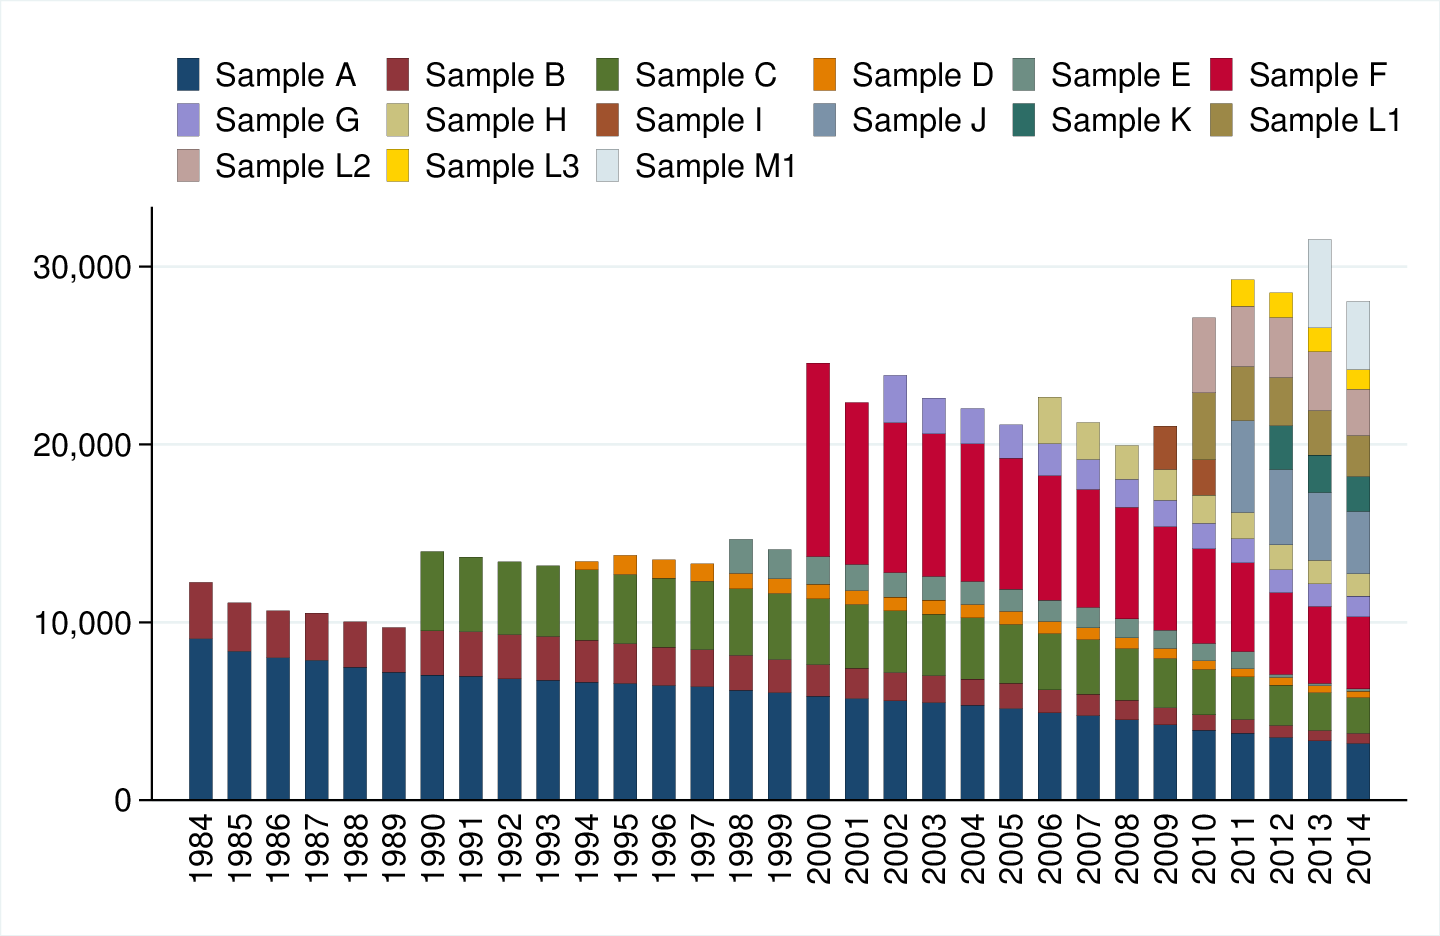
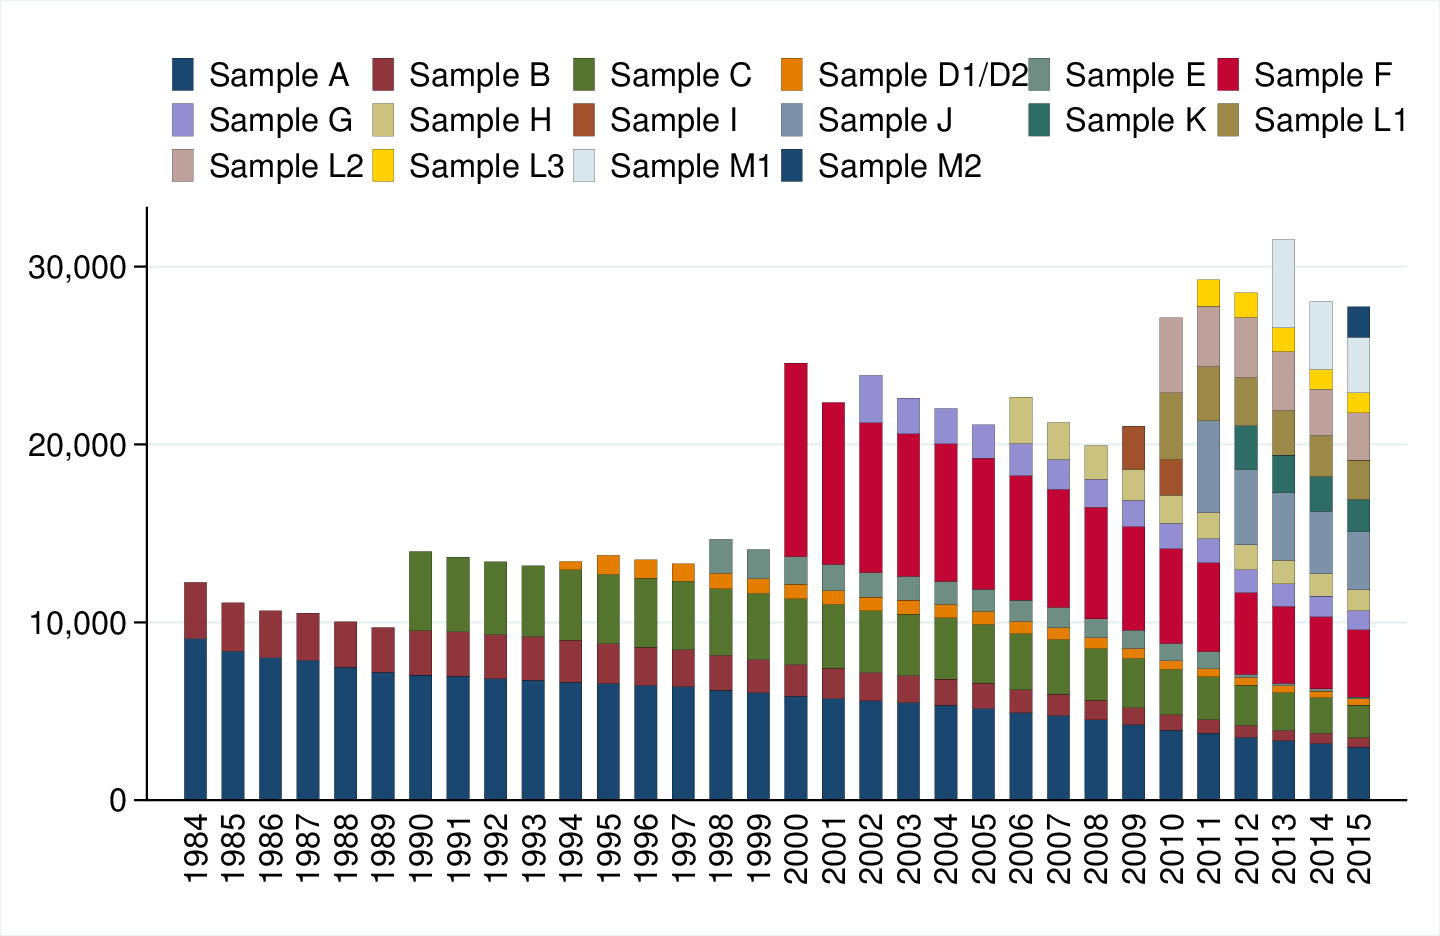
Update Grafiken und Tabellen auf V32

Changed region(s): [[0.0, 0.2169, 0.9688, 0.9605], [0.0938, 0.062, 0.9688, 0.2169], [0.0625, 0.8365, 0.0938, 0.8675]]

diff --git a/soep/dtc/hh.md b/soep/dtc/hh.md
@@ -7,15 +7,16 @@ layout: dtc
 ## Author: Jan Goebel                                           ##
 ##################################################################
 
-soep.version <- 31
+soep.version <- 32
 soep.waves <- c(letters, paste0("b", letters))[1:soep.version]
 sample.shortnames <- c("A (1984)" , "B (1984)", "C (1990)", "D (1994/95)",
                        "E (1998)*", "F (2000)", "G (2002)", "H (2006)",
                        "I (2009)*", "J (2011)", "K (2012)",
-                       "L1 (2010)", "L2 (2010)", "L3 (2011)", "M1 (2013)")
+                       "L1 (2010)", "L2 (2010)", "L3 (2011)",
+                       "M1 (2013)", "M2 (2015)")
 
 ## create long version of hpfad
-hpfad <- paste0("/home/jgoebel/data/soep-data/DATA/soep", soep.version, "_en/stata/hpfad.dta")
+hpfad <- paste0("/home/jgoebel/data/soep-data/DATA/soep", soep.version, "_de/stata/hpfad.dta")
 require(foreign)
 hpfad <- droplevels(read.dta(hpfad))
 hpfad <- hpfad[, c("hhnr", "hsample", paste0(soep.waves, "hhnr"), paste0(soep.waves, "hnetto"))]
@@ -44,16 +45,14 @@ for (i in seq(along.with = new.samples)) {
             hpfadl$hnetto %in% c("[1] Successful HH Interview", "[1] Realisiertes Haushaltsinterview"))
 
     old.new.hh[names(new.samples)[i], paste("new hh", 1983+soep.version)] <-
-        sum(tmp$syear   >   new.samples[i]    &
-            tmp$syear   <=  1983+soep.version &
-            tmp$hsample == names(new.samples)[i] &
-            !(tmp$cid == tmp$hid))    
+        sum(! tmp$hid[tmp$hsample == names(new.samples)[i] & tmp$syear > new.samples[i]] %in%
+              hpfadl$cid[hpfadl$hsample == names(new.samples)[i] & hpfadl$syear == new.samples[i]])
 }
      
 ################################################
 ## FIX for Sample D starting in 1994 AND 1995 ##
 ################################################
-is.sample.d <- names(new.samples) %in% c("[4] D Zuwanderer 1984-93", "[4] D Immigrant 1984-1993", "[4] D 84-93 Immigrant (West)")
+is.sample.d <- names(new.samples) %in% c("[4] D 1994/5 Migration (1984-92/94 West)", "[4] D Zuwanderer 1984-93", "[4] D Immigrant 1984-1993", "[4] D 84-93 Immigrant (West)")
 stopifnot(sum(is.sample.d) == 1)
 old.new.hh[is.sample.d, "first wave hh"] <-
     sum(hpfadl$syear  %in% c(new.samples[is.sample.d], new.samples[is.sample.d]+1) &
@@ -77,13 +76,13 @@ dimnames(old.new)[[2]] <- sample.shortnames
 postscript("../graphics/old-new-hh.eps", horizontal = TRUE)
 par(mar=c(7,4,2,4), las=2)
 barplot(old.new[1:2,], beside=TRUE, horiz=FALSE, ylim=c(0,7000),
-        legend.text=c("First Wave Households", paste0("New Households in ", 1983+soep.version)))
+        legend.text=c("First Wave Households", paste0("New Households in ", 1983+soep.version, " since start of sample")))
 par(new=TRUE)
 plot(seq(from = 1.5, to=0.5+ncol(old.new)*2, by=2), old.new[3,], type="p", pch=19, col=2, axes=FALSE,
      xlab="", ylab="")
 box()
 axis(4, col=2)
-legend(15, 54, paste0("Share of \"new\" Households\n in (", 1983+soep.version, ", right scale in %)"),
+legend(13, 54, paste0("Share of \"new\" Households\n in ", 1983+soep.version, " (right scale in %)"),
        pch=19, col=2, cex=0.75)
 dev.off()
 system("cd ../graphics/; convert -rotate 90 old-new-hh.eps old-new-hh.png")

diff --git a/soep/dtc/crossdevel.md b/soep/dtc/crossdevel.md
@@ -2,11 +2,11 @@
 layout: dtc
 ---
 ```stata
-* Version SOEP 30, Mathis Schroeder, Jan Goebel
+* Version SOEP 32, Mathis Schroeder, Jan Goebel
 * produces figure "Cross-Sectional Development of Sample Size"
 
 clear all
-use *netto psample letztbef using ~/data/soep/soep31/stata/ppfad.dta 
+use *netto psample letztbef using ~/data/soep/soep.v32-gen/pre/ppfad.dta
 
 qui sum letztbef
 local last=r(max)
@@ -17,7 +17,7 @@ levelsof psample, local(samps)
 
 matrix define countme=J(`last'-1984+1,`cols'+1,.)
 local row=1
-qui foreach wv in a b c d e f g h i j k l m n o p q r s t u v w x y z ba bb bc bd be {
+qui foreach wv in a b c d e f g h i j k l m n o p q r s t u v w x y z ba bb bc bd be bf {
    forvalues i=1/`cols' {
        local smp : word `i' of `samps'
        count if inrange(`wv'netto,10,19) & psample==`smp'
@@ -37,29 +37,29 @@ forvalues yr=1984/`last' {
 }
 matrix rownames countme=`rownm'
 
-local colnm "A B C D E F G H I J K L1 L2 L3 M1"
+local colnm "A B C D E F G H I J K L1 L2 L3 M1 M2"
 matrix colnames countme=`colnm' year
 
 svmat countme, names(col)
-keep `colnm' year
+keep A-M2 year
 dropmiss, obs force
 
-set linesize 255
-list
 
 * note: set scheme(s2color) to scheme(s2mono) for black and white if necessary. 
 
 #d;
-graph bar (first) `colnm', over(year, label(angle(ninety))) stack 
+graph bar (first) A B C D E F G H I J K L1 L2 L3 M1 M2, over(year, label(angle(ninety))) stack 
    bar( 1, lcolor(black) lpattern(solid)) bar( 2, lcolor(black) lpattern(solid)) bar( 3, lcolor(black) lpattern(solid)) 
    bar( 4, lcolor(black) lpattern(solid)) bar( 5, lcolor(black) lpattern(solid)) bar( 6, lcolor(black) lpattern(solid)) 
    bar( 7, lcolor(black) lpattern(solid)) bar( 8, lcolor(black) lpattern(solid)) bar( 9, lcolor(black) lpattern(solid)) 
-   bar(10, lcolor(black) lpattern(solid)) bar(11, lcolor(black) lpattern(solid)) bar(12, lcolor(black) lpattern(solid)) 
-   bar(13, lcolor(black) lpattern(solid)) bar(14, lcolor(black) lpattern(solid)) bar(15, lcolor(black) lpattern(solid)) 
+   bar(10, lcolor(black) lpattern(solid)) bar(11, lcolor(black) lpattern(solid)) bar(12, lcolor(black) lpattern(solid))
+   bar(13, lcolor(black) lpattern(solid)) bar(14, lcolor(black) lpattern(solid)) bar(15, lcolor(black) lpattern(solid))
+   bar(16, lcolor(black) lpattern(solid))
 	ylabel(, angle(zero)) 
-	legend(order(1 "Sample A" 2 "Sample B" 3 "Sample C" 4 "Sample D" 5 "Sample E" 
+	legend(order(1 "Sample A" 2 "Sample B" 3 "Sample C" 4 "Sample D1/D2" 5 "Sample E" 
 	             6 "Sample F" 7 "Sample G" 8 "Sample H" 9 "Sample I" 10 "Sample J"
-                     11 "Sample K" 12 "Sample L1" 13 "Sample L2" 14 "Sample L3" 15 "Sample M1") 
+                     11 "Sample K" 12 "Sample L1" 13 "Sample L2" 14 "Sample L3" 15 "Sample M1"
+                     16 "Sample M2") 
                      cols(6) region(lcolor(white)) position(12) symxsize(small)) 
 	scheme(s2color) xsize(20) ysize(13) graphregion(fcolor(white));
 #d cr	
@@ -68,5 +68,7 @@ graph bar (first) `colnm', over(year, label(angle(ninety))) stack
 graph export ../graphics/crossdevel.eps, replace
 shell convert ../graphics/crossdevel.eps  ../graphics/crossdevel.png
 
-
+set linesize 200 
+order year 
+list , table clean
 ```

diff --git a/soep/dtc/mode.md b/soep/dtc/mode.md
@@ -2,15 +2,14 @@
 layout: dtc
 ---
 ```stata
-* Version SOEP 30, Mathis Schroeder, Jan Goebel
+* Version SOEP 32, Mathis Schroeder, Jan Goebel
 * produces figure "Use of Different Interview Modes since 1984"
 
 clear
 set more off
-set mem 100m
 
-global sop "~/data/soep/soep31/stata/"
-local waves "b c d e f g h i j k l m n o p q r s t u v w x y z ba bb bc bd be"
+global sop "~/data/soep/soep.v32-gen/pre/"
+local waves "b c d e f g h i j k l m n o p q r s t u v w x y z ba bb bc bd be bf "
 
 use persnr mode84 using $sop/apgen, clear
 replace mode84=. if mode84<0
@@ -25,23 +24,22 @@ foreach wv in `waves' {
   rename mode`yr' mode`year'
 }  
 
-reshape long mode, i(persnr) j(svyyear)
-keep if ~missing(mode)
+reshape long mode, i(persnr) j(syear)
 
 recode mode ///
          (100 110 = 1 "PAPI") ///
-         (130 131 132 133 141 142 = 3 "SAQ (with Iwer)") ///
+         (130 131 132 133 = 3 "SAQ (with Iwer)") ///
          (120 135 134 = 4 "SAQ (w/o Iwer)") ///
          (140 = 2 "CAPI") ///
          (150 = 6 "CAWI") ///
          (210 = 5 "Mail") ///
          (200 220 = . ) if mode<., into(newmode)
-tab svyyear newmode 
+tab syear newmode 
 
 * graph
 #d;
-catplot newmode , percent(svyyear) stack asyvars recast(bar)
-   over(svyyear, label(angle(ninety))) ylabel(, angle(zero)) ytitle("") b1title("")
+catplot newmode , percent(syear) stack asyvars recast(bar)
+   over(syear, label(angle(ninety))) ylabel(, angle(zero)) ytitle("") b1title("")
 	legend(cols(6) region(lcolor(white)) position(12) symxsize(small)) 
    bar(1, lcolor(black) lpattern(solid)) bar(2, lcolor(black) lpattern(solid)) bar(3, lcolor(black) lpattern(solid)) 
 	bar(4, lcolor(black) lpattern(solid)) bar(5, lcolor(black) lpattern(solid))

diff --git a/soep/dtc/sample.md b/soep/dtc/sample.md
@@ -221,11 +221,12 @@ Table 4: Starting Sample Size of the SOEP Samples
 | H    	 | 2006 | 1,506 		   |  3,407 		 |  2,616 			 |  6.0                           	   |   623            |
 | I    	 | 2009 | 1,495 		   |  3,428 		 |  2,432 			 | 13.4                           	   |   620            |
 | J    	 | 2011 | 3,136 		   |  6,873 		 |  5,161 			 |  9.9                           	   | 1,147            |
-| L1     | 2010 | 2,074  		   |  7,939   		 |  3,770   		 |  6.7                                | 3,900            |
-| L2     | 2010 | 2,500  		   |  9,063   		 |  4,227   		 |  5.1                                | 4,611            |
-| L3     | 2011 |   924  		   |  3,645   		 |  1,487   		 |  4.2                                | 2,092            |
 | K    	 | 2012 | 1,526 		   |  3,286 		 |  2,473 			 |  9.2                           	   |   563            |
-| M1     | 2013 | 2,723  		   |  8,522   		 |  4,964   		 | 17.8                                | 2,481            |
+| L1   	 | 2010 | 2,074   		   |  7,939  		 |  3,770  			 |  6.7                            	   | 3,900            |
+| L2   	 | 2010 | 2,500   		   |  9,063  		 |  4,227  			 |  5.1                            	   | 4,611            |
+| L3   	 | 2011 |   924   		   |  3,645  		 |  1,487  			 |  4.2                            	   | 2,092            |
+| M1   	 | 2013 | 2,723   		   |  8,522  		 |  4,964  			 | 17.8                            	   | 2,481            |
+| M2   	 | 2015 | 1,096   		   |  3,048  		 |  1,711  			 | 19.3                            	   |   927            |
 
 
 Figure 3: Cross-Sectional Development of Sample Size (Respondents)

diff --git a/soep/dtc/soep_whereabout.md b/soep/dtc/soep_whereabout.md
@@ -2,19 +2,18 @@
 layout: dtc
 ---
 ```stata
-* Version SOEP 30, Mathis Schröder & Moritz Mannschreck & Jan Goebel
+* Version SOEP 32, Mathis Schröder & Moritz Mannschreck & Jan Goebel
 * produces figure "Longitudinal Development of the 1984 Population"
 
 clear all
-set mem 50m
 set more off
 
 * set the basics
-local waves "a b c d e f g h i j k l m n o p q r s t u v w x y z ba bb bc bd be"
+local waves "a b c d e f g h i j k l m n o p q r s t u v w x y z ba bb bc bd be bf"
 local maxwave: word count `waves'
 local maxyear=1983+`maxwave' 
  
-use ~/data/soep/soep31/stata/ppfad.dta, clear
+use ~/data/soep/soep.v32-gen/pre/ppfad.dta, clear
 
 * restrict to participants in 1984; desired n=16252
 keep if anetto>0
@@ -29,8 +28,8 @@ qui foreach i in `waves' {
 	replace `i'net=1 if (`i'netto>=91 & `i'netto<=93)					
 	replace `i'net=2 if (`i'netto>=97 & `i'netto<=99)										
 	replace `i'net=3 if (`i'netto>=20 & `i'netto<=29)										
-	replace `i'net=4 if (`i'netto>=10 & `i'netto<=19)  | (`i'netto>=32 & `i'netto<=39)  // some other qnnaire in 32-39
-	replace `i'net=5 if (`i'netto>=80 & `i'netto<=89)	| inlist(`i'netto,31,61,62) 	   // only luecke filled out for last year
+	replace `i'net=4 if (`i'netto>=10 & `i'netto<=19)  | (`i'netto>=32 & `i'netto<=39)  /* some other qnnaire in 32-39 */
+	replace `i'net=5 if (`i'netto>=80 & `i'netto<=89)	| inlist(`i'netto,31,61,62) 	   /* only luecke filled out for last year */
 	replace `i'net=6 if `i'netto==-2 | `i'netto==30
 	replace `i'net=7 if (`i'netto!=-2 & ~inrange(`i'netto,29,39)) & ~inrange(`i'net,-2,5)
 	lab values `i'net net

diff --git a/soep/dtc/table_wave1.md b/soep/dtc/table_wave1.md
@@ -2,17 +2,16 @@
 layout: dtc
 ---
 ```stata
-* Version SOEP 29, Mathis Schroeder, Jan Goebel
+* Version SOEP 32, Mathis Schroeder, Jan Goebel
 * creates Table "Starting Sample Size of SOEP-Samples"
 * For new years without new samples, this should run with a new "ppfad" and and the addition of a new wave letter in local "waves".
 * For new samples, local "rownm" needs to be extended accordingly.
 
 clear all
-set mem 40m
-local waves "a b c d e f g h i j k l m n o p q r s t u v w x y z ba bb bc bd be"
-local rownm "A B C D D1/D2 E F G H I J K L1 L2 L3 M1"
+local waves "a b c d e f g h i j k l m n o p q r s t u v w x y z ba bb bc bd be bf"
+local rownm "A B C D1 D1/D2 E F G H I J K L1 L2 L3 M1 M2"
 
-use *hhnr *netto psample letztbef using ~/data/soep/soep31/stata/ppfad.dta, clear
+use *hhnr *netto psample letztbef using ~/data/soep/soep.v32-gen/pre/ppfad.dta, clear
 
 qui sum letztbef
 local last=r(max)
